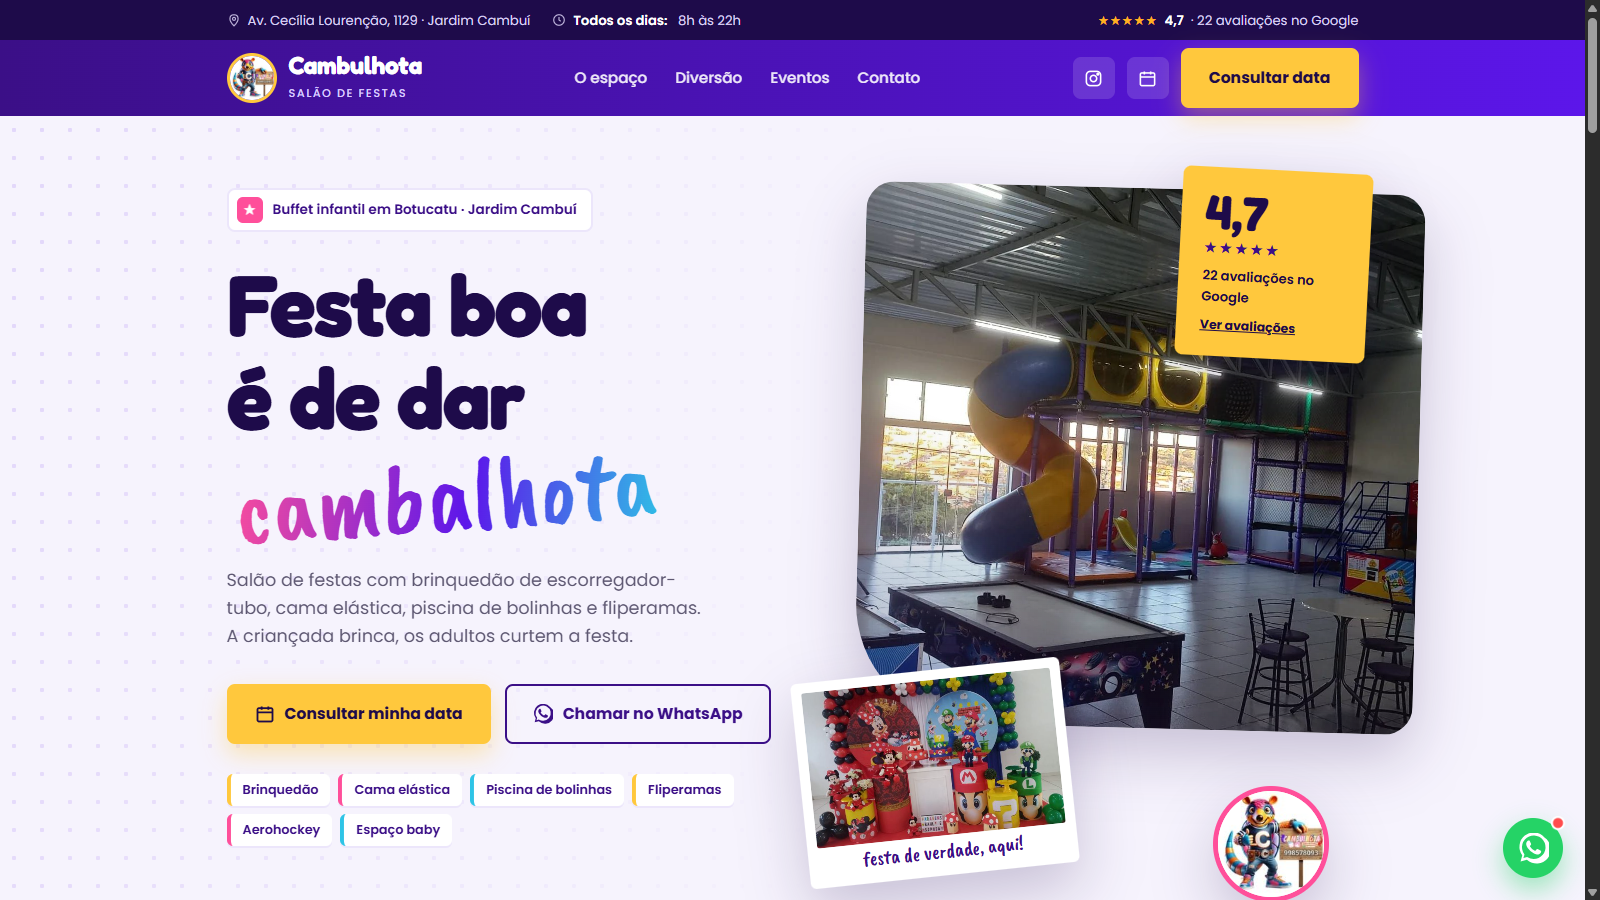
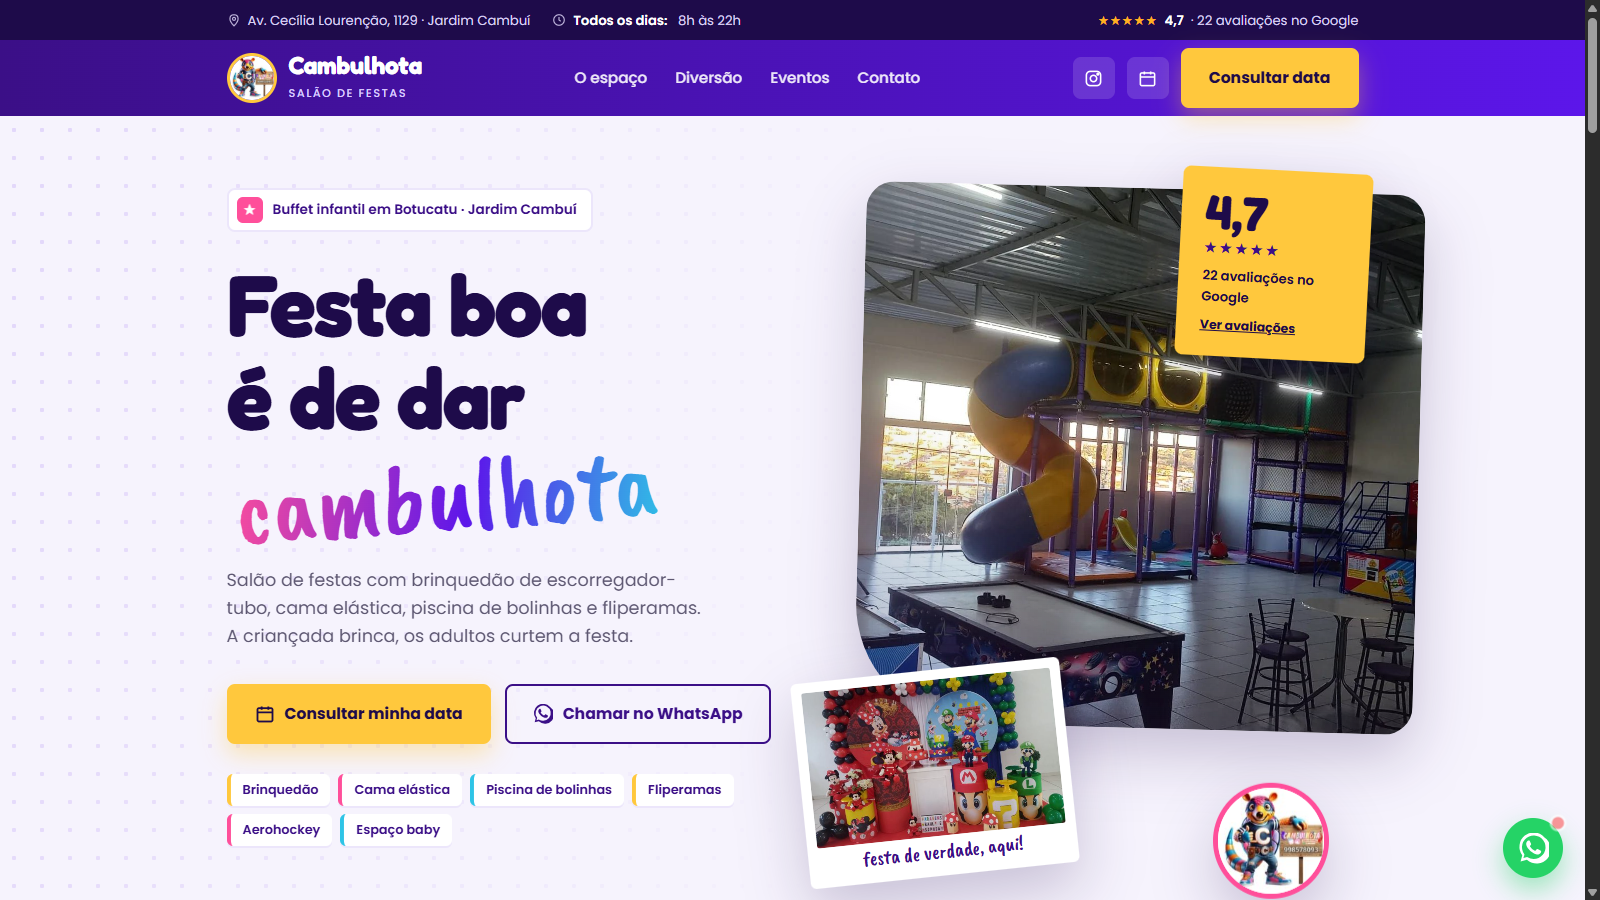
site: Cambulhota - corrige 'cambalhota' para 'cambulhota' no hero

Changed region(s): [[0.75, 0.8711, 0.8438, 1.0], [0.25, 0.5289, 0.4062, 0.5911], [0.9688, 0.9022, 1.0, 0.9333]]

diff --git a/cambulhota-botucatu/index.html b/cambulhota-botucatu/index.html
@@ -425,7 +425,7 @@ footer a:hover{color:#fff}
   <div class="container hero-grid">
     <div class="hero-copy">
       <span class="hero-tag"><i>★</i>Buffet infantil em Botucatu · Jardim Cambuí</span>
-      <h1>Festa boa<br>é de dar <span class="script">cambalhota</span></h1>
+      <h1>Festa boa<br>é de dar <span class="script">cambulhota</span></h1>
       <p class="hero-lead">Salão de festas com brinquedão de escorregador-tubo, cama elástica, piscina de bolinhas e fliperamas. A criançada brinca, os adultos curtem a festa.</p>
       <div class="hero-ctas">
         <a class="btn btn-sun" href="#agendar"><svg viewBox="0 0 24 24" fill="none" stroke="currentColor" stroke-width="2.2"><rect x="3" y="5" width="18" height="16" rx="2"/><path d="M3 10h18M8 3v4M16 3v4"/></svg>Consultar minha data</a>
